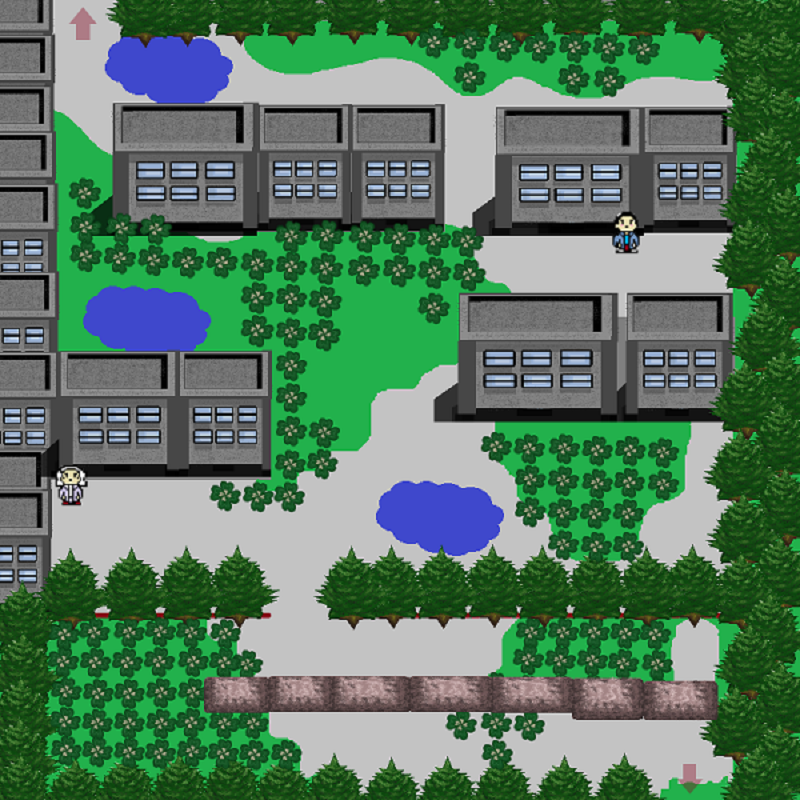
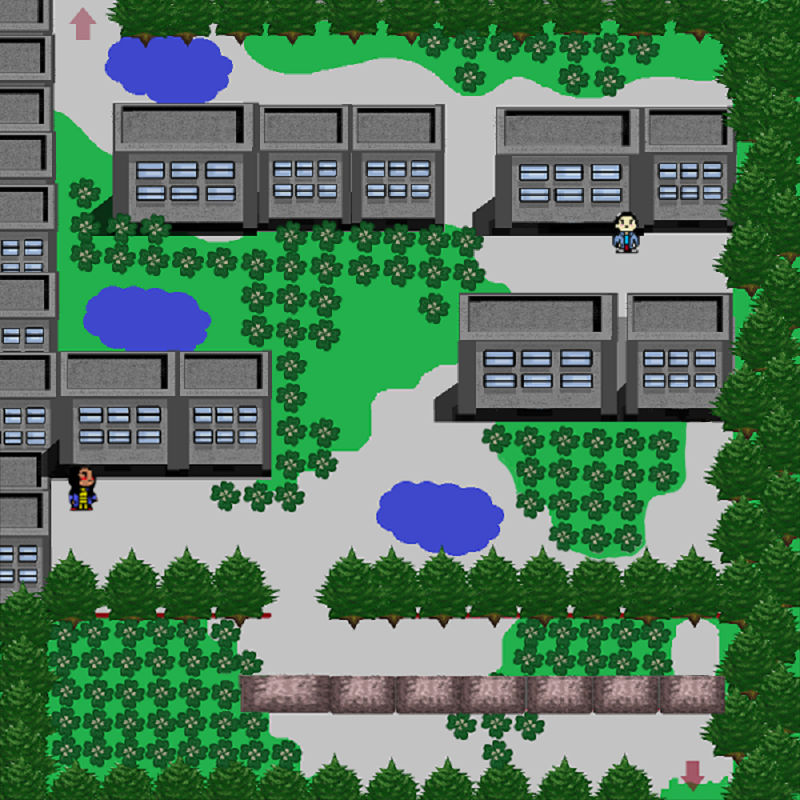
commitage

diff --git a/VariablesDeJeu.java b/VariablesDeJeu.java
@@ -14,15 +14,15 @@ public class VariablesDeJeu {//création de l'unique Jframe
 		public int [] listeInterractionsAvecDresseurs  = new int[60]; //tableau contenenant la liste des combats et leur état : 0= pas fait, 1 perdu, 2 gagné
 		public String nomCarte;
 		private int listeInterractionsAvecDresseursInitiale [] = {0,0,0,0,0,0,0,0,0,0,0,0,0,0,0,0,0,0,0,0,0,0,0,0,0,0,0,0,0,0,0,0,0,0,0,0,0,0,0,0,0,0,0,0,0,0,0,0,0,0,0,0,0,0,0,0,0,0,0,0};
-		private int taTurne [][] = { {0,0,0,0,0,0,0,0,0,0,0,0,0,0,0,0,0,0,0,0,0,0,0,0,0},{0,0,0,0,0,0,0,0,0,0,0,0,0,0,0,0,0,0,0,0,0,0,0,0,0},{0,0,0,0,0,0,0,0,0,0,0,0,0,0,0,0,0,0,0,0,0,0,0,0,0},{0,0,0,0,0,0,0,0,0,0,0,0,0,0,0,0,0,0,0,0,0,0,0,0,0},{0,0,0,0,0,0,0,0,0,0,0,0,0,0,0,0,0,0,0,0,0,0,0,0,0},{0,0,0,0,0,0,0,0,0,0,0,0,0,0,0,0,0,0,0,0,0,0,0,0,0},{0,0,0,0,0,0,0,0,0,0,0,0,0,0,0,0,0,0,0,0,0,0,0,0,0},{0,0,0,0,1,1,1,1,1,0,0,0,0,0,0,0,0,0,1,1,1,1,1,1,0},{0,1,1,1,1,1,1,1,1,0,0,0,0,0,1,1,1,1,1,1,1,1,1,1,0},{0,1,1,1,1,1,1,1,1,0,0,0,1,1,1,1,1,1,1,1,1,1,1,1,0},{0,1,1,1,1,1,1,1,1,1,1,1,1,1,1,1,1,1,1,1,1,1,1,1,0},{0,1,1,1,201,201,201,0,0,0,0,0,0,0,0,1,1,1,1,1,1,1,1,1,0},{0,0,0,0,201,2,201,1,1,0,0,0,0,1,1,1,1,1,1,1,1,1,1,1,0},{0,0,0,0,201,2,201,0,0,0,0,0,0,0,0,1,1,1,1,1,1,1,1,1,0},{0,0,0,0,201,201,201,1,0,0,0,0,0,1,1,1,1,1,1,1,1,1,1,1,0},{0,1,1,1,1,1,1,1,1,1,1,1,1,1,1,1,1,1,1,1,1,1,1,1,0},{0,1,1,1,1,1,1,1,1,1,1,1,1,1,1,1,1,1,1,1,1,1,1,1,0},{0,1,1,1,1,1,1,1,1,1,1,4102,1,1,1,1,1,1,1,1,1,1,1,1,0},{0,1,1,1,1,1,1,1,1,1,4102,4102,4102,4102,1,1,1,1,1,1,1,1,1,1,0},{0,0,0,0,0,0,0,0,0,4102,4102,4102,4102,4102,0,0,0,0,0,0,0,0,0,0,0},{0,0,0,0,0,0,0,0,0,0,0,0,0,0,0,0,0,0,0,0,0,0,0,0,0},{0,0,0,0,0,0,0,0,0,0,0,0,0,0,0,0,0,0,0,0,0,0,0,0,0},{0,0,0,0,0,0,0,0,0,0,0,0,0,0,0,0,0,0,0,0,0,0,0,0,0},{0,0,0,0,0,0,0,0,0,0,0,0,0,0,0,0,0,0,0,0,0,0,0,0,0},{0,0,0,0,0,0,0,0,0,0,0,0,0,0,0,0,0,0,0,0,0,0,0,0,0} };
+		private int taTurne [][] = { {0,0,0,0,0,0,0,0,0,0,0,0,0,0,0,0,0,0,0,0,0,0,0,0,0},{0,0,0,0,0,0,0,0,0,0,0,0,0,0,0,0,0,0,0,0,0,0,0,0,0},{0,0,0,0,0,0,0,0,0,0,0,0,0,0,0,0,0,0,0,0,0,0,0,0,0},{0,0,0,0,0,0,0,0,0,0,0,0,0,0,0,0,0,0,0,0,0,0,0,0,0},{0,0,0,0,0,0,0,0,0,0,0,0,0,0,0,0,0,0,0,0,0,0,0,0,0},{0,0,0,0,0,0,0,0,0,0,0,0,0,0,0,0,0,0,0,0,0,0,0,0,0},{0,0,0,0,0,0,0,0,0,0,0,0,0,0,0,0,0,0,0,0,0,0,0,0,0},{0,0,0,0,1,1,1,1,1,0,0,0,0,0,0,0,0,0,1,1,1,1,1,1,0},{0,1,1,1,1,1,1,1,1,0,0,0,0,0,1,1,1,1,1,1,1,1,1,1,0},{0,1,1,1,1,1,1,1,1,0,0,0,1,1,1,1,1,1,1,1,1,1,1,1,0},{0,1,1,1,1,1,1,1,1,1,1,1,1,1,1,1,1,1,1,1,1,1,1,1,0},{0,1,1,1,201,201,201,0,0,0,0,0,0,0,0,1,1,1,1,1,1,1,1,1,0},{0,0,0,0,201,2,201,1,1,0,0,0,0,1,1,1,1,1,1,1,1,1,1,1,0},{0,0,0,0,201,2,201,0,0,0,0,0,0,0,0,1,1,1,1,1,1,1,1,1,0},{0,0,0,0,201,201,201,1,0,0,0,0,0,1,1,1,1,1,1,1,1,1,1,1,0},{0,1,1,1,1,1,1,1,1,1,1,1,1,1,1,1,1,1,1,1,1,1,1,1,0},{0,1,1,1,1,1,1,1,1,1,1,1,1,1,1,1,1,1,1,1,1,1,1,1,0},{0,1,1,1,1,1,1,1,1,1,1,4102,1,1,1,1,1,1,1,1,1,1,1,1,0},{0,1,1,1,1,1,1,1,1,1,1,1,1,1,1,1,1,1,1,1,1,1,1,1,0},{0,0,0,0,0,0,0,0,0,4102,4102,4102,4102,4102,0,0,0,0,0,0,0,0,0,0,0},{0,0,0,0,0,0,0,0,0,0,0,0,0,0,0,0,0,0,0,0,0,0,0,0,0},{0,0,0,0,0,0,0,0,0,0,0,0,0,0,0,0,0,0,0,0,0,0,0,0,0},{0,0,0,0,0,0,0,0,0,0,0,0,0,0,0,0,0,0,0,0,0,0,0,0,0},{0,0,0,0,0,0,0,0,0,0,0,0,0,0,0,0,0,0,0,0,0,0,0,0,0},{0,0,0,0,0,0,0,0,0,0,0,0,0,0,0,0,0,0,0,0,0,0,0,0,0} };
 		private	int laFeyssine [][] = { {0,0,4105,4105,4105,0,0,0,0,0,0,0,0,0,0,0,0,0,0,0,0,0,0,0,0},{0,0,4105,4105,4105,0,0,0,0,0,0,0,0,0,0,0,0,0,0,0,0,0,0,0,0},{0,0,202,202,202,0,0,0,0,0,0,0,1,1,1,1,0,0,0,0,0,0,0,0,0},{0,0,2,202,202,0,0,0,0,0,0,2,203,1,1,1,0,0,0,0,0,0,0,0,0},{0,0,2,202,202,202,0,0,0,0,0,2,203,1,1,1,0,0,0,0,0,0,0,0,0},{0,0,202,202,202,1,0,0,0,0,0,203,203,1,1,1,0,0,0,0,0,0,0,0,0},{0,0,1,1,1,0,0,0,0,0,0,1,1,0,0,0,0,0,0,0,0,0,0,0,0},{0,0,1,1,1,0,0,0,0,0,0,1,1,0,0,0,0,0,0,0,0,0,0,0,0},{0,0,1,1,1,0,0,0,0,0,0,1,1,0,0,0,0,4101,4101,4101,0,0,0,0,0},{0,0,1,1,1,1,0,1,1,1,0,1,1,0,0,0,0,4101,4101,4101,0,0,0,0,0},{0,0,1,1,1,1,1,0,0,0,1,1,1,0,0,0,1,1,1,1,1,1,1,0,0},{0,0,1,1,1,1,0,0,0,0,0,1,1,0,0,0,1,1,1,1,1,1,1,0,0},{0,0,1,1,1,1,0,0,0,0,0,1,1,1,1,1,1,1,1,1,1,1,1,0,0},{0,0,1,1,1,1,0,0,0,0,0,1,1,1,1,1,0,0,0,0,0,0,0,0,0},{0,0,1,1,1,1,0,0,0,0,0,1,1,1,1,1,0,0,0,0,0,0,0,0,0},{0,0,1,1,1,1,0,0,0,0,0,1,1,1,1,1,0,0,0,0,0,0,0,0,0},{0,0,1,1,1,1,0,0,0,0,0,1,1,1,1,1,0,0,0,0,0,0,0,0,0},{0,0,1,1,1,1,0,0,0,0,0,1,1,204,204,0,0,0,4103,0,0,0,0,0,0},{0,0,1,1,1,1,0,0,0,0,0,1,1,204,2,0,0,4103,4103,0,0,0,0,0,0},{0,0,1,1,1,1,0,0,0,0,0,1,1,204,2,0,0,0,4103,0,0,0,0,0,0},{0,0,1,1,1,1,0,0,0,0,0,1,1,204,204,204,1,1,1,1,1,1,1,0,0},{0,0,1,1,1,1,0,0,0,0,0,1,1,1,1,1,1,1,1,1,1,1,1,0,0},{0,0,1,1,1,1,0,0,0,0,0,0,0,0,0,0,0,0,0,0,0,0,0,0,0},{0,0,0,0,0,0,0,0,0,0,0,0,0,0,0,0,0,0,0,0,0,0,0,0,0},{0,0,0,0,0,0,0,0,0,0,0,0,0,0,0,0,0,0,0,0,0,0,0,0,0}};
 		private int turneVoisin [][] = { {0,0,0,0,0,0,0,0,0,0,0,0,0,0,0,0,0,0,0,0,0,0,0,0,0},{0,0,0,0,0,0,0,0,0,0,0,0,0,0,0,0,0,0,0,0,0,0,0,0,0},{0,0,0,0,0,0,0,0,0,0,0,0,0,0,0,0,0,0,0,0,0,0,0,0,0},{0,0,0,0,0,0,0,0,0,0,0,0,0,0,0,0,0,0,0,0,0,0,0,0,0},{0,0,0,0,0,0,0,0,0,0,0,0,0,0,0,0,0,0,0,0,0,0,0,0,0},{0,0,0,0,0,0,0,0,0,0,0,0,0,0,0,0,0,0,0,0,0,0,0,0,0},{0,0,0,0,0,0,0,0,0,0,0,0,0,0,0,0,0,0,0,0,0,0,0,0,0},{0,0,0,0,0,0,0,0,0,0,0,0,0,0,0,0,0,1,0,0,0,0,0,0,0},{0,1,1,0,0,0,0,0,0,0,0,0,0,0,1,1,1,1,1,1,1,0,0,0,0},{0,1,1,0,0,0,0,1,1,1,1,1,0,0,1,1,1,1,1,1,1,0,0,0,0},{0,1,1,0,0,0,0,1,1,1,1,1,1,1,1,1,1,1,1,1,1,0,0,0,0},{0,1,1,0,0,0,0,1,1,1,1,1,1,1,1,205,205,205,1,1,1,0,0,0,0},{0,1,1,0,0,0,0,1,1,1,1,1,0,0,205,2,205,1,1,1,1,0,0,0,0},{0,1,1,206,206,206,1,1,1,1,1,1,1,1,205,2,205,1,1,1,1,0,0,0,0},{0,1,206,2,2,206,1,1,1,1,1,1,1,1,205,205,205,1,1,1,1,1,1,0,0},{0,1,206,2,2,206,1,1,1,1,1,1,1,1,1,1,1,1,1,1,1,1,1,0,0},{0,1,1,206,206,206,1,1,1,1,1,1,1,1,1,1,1,1,1,1,1,1,1,0,0},{0,1,1,1,1,1,1,1,1,1,1,4104,1,1,1,1,1,1,1,1,1,1,1,0,0},{0,1,1,1,1,1,1,1,1,1,4104,4104,4104,4104,1,1,1,1,1,1,1,1,1,0,0},{0,0,0,0,0,0,0,0,0,4104,4104,4104,4104,4104,0,0,0,0,0,0,0,0,0,0,0},{0,0,0,0,0,0,0,0,0,0,0,0,0,0,0,0,0,0,0,0,0,0,0,0,0},{0,0,0,0,0,0,0,0,0,0,0,0,0,0,0,0,0,0,0,0,0,0,0,0,0},{0,0,0,0,0,0,0,0,0,0,0,0,0,0,0,0,0,0,0,0,0,0,0,0,0},{0,0,0,0,0,0,0,0,0,0,0,0,0,0,0,0,0,0,0,0,0,0,0,0,0},{0,0,0,0,0,0,0,0,0,0,0,0,0,0,0,0,0,0,0,0,0,0,0,0,0}};	
-		private	int travee1 [][] = {{0,0,0,0,0,0,0,0,0,0,0,0,0,0,0,0,0,0,0,0,0,4202,4202,4202,0},{0,0,3,3,307,5,5,5,5,5,5,5,1,1,1,1,1,1,6,6,6,4202,4202,4202,0},{0,0,307,307,307,5,5,5,1,1,5,1,1,1,1,1,1,1,6,6,6,6,1,0,0},{0,0,0,0,0,0,0,0,0,0,1,0,0,0,0,0,0,0,0,0,0,0,1,0,0},{0,0,0,0,0,0,0,0,0,0,1,0,0,0,0,0,0,0,0,0,0,0,1,0,0},{0,0,0,0,0,0,0,0,0,0,1,0,0,0,0,0,0,0,0,0,0,0,5,0,0},{0,0,0,0,0,0,0,0,0,0,1,0,0,0,0,0,0,0,0,0,0,0,5,0,0},{0,0,0,1,1,1,1,1,1,1,5,5,5,5,5,5,5,1,1,5,5,5,5,0,0},{0,0,0,1,1,1,1,1,1,1,5,5,5,5,5,5,5,5,5,5,5,5,5,0,0},{0,0,0,0,0,0,0,0,0,0,0,5,1,1,5,5,5,5,1,6,6,6,1,0,0},{0,0,0,0,0,0,0,0,0,0,0,1,1,1,5,5,5,5,6,6,6,6,1,0,0},{0,0,0,0,0,0,0,0,0,0,0,1,1,1,1,5,0,0,0,0,0,0,0,0,0},{0,0,0,0,0,0,0,0,0,0,0,1,1,1,1,5,0,0,0,0,0,0,0,0,0},{0,0,0,3,308,5,5,5,5,5,1,1,1,1,5,5,0,0,0,0,0,0,0,0,0},{0,0,0,3,308,5,5,5,5,5,1,1,1,1,5,5,0,0,0,0,0,0,0,0,0},{0,0,0,308,308,5,5,5,5,1,6,6,6,1,1,5,5,5,5,1,1,309,3,0,0},{0,0,0,1,1,5,5,5,5,6,6,6,6,1,1,1,1,1,1,1,1,309,309,0,0},{0,0,0,0,0,0,0,0,0,0,0,0,0,0,0,1,1,0,0,0,0,0,0,0,0},{0,0,0,0,0,0,0,0,0,0,0,0,0,0,0,1,1,0,0,0,0,0,0,0,0},{0,0,310,3,310,5,5,5,5,1,1,1,1,1,1,1,1,5,5,5,5,5,5,0,0},{0,0,310,3,310,5,5,5,5,1,1,1,1,1,1,1,1,5,5,5,5,5,5,0,0},{0,0,0,0,0,0,0,0,0,0,0,0,0,0,0,0,0,0,5,5,5,5,5,0,0},{0,0,0,1,1,1,1,1,5,5,5,1,1,1,1,1,5,5,5,5,5,5,5,0,0},{0,0,4201,4201,4201,1,1,1,1,5,1,1,1,1,1,5,5,5,5,5,5,5,5,0,0},{0,0,4201,4201,4201,0,0,0,0,0,0,0,0,0,0,0,0,0,0,0,0,0,0,0,0}};
-		private	int travee2 [][] = {{0,0,4302,4302,4302,0,0,0,0,0,0,0,0,0,0,0,0,0,0,0,0,0,0,0,0},{0,0,4302,4302,4302,6,6,1,1,1,1,1,1,5,5,5,5,5,5,5,5,1,0,0,0},{0,0,1,1,6,6,6,1,1,1,1,1,1,1,5,1,1,5,5,5,1,1,0,0,0},{0,0,1,0,0,0,0,0,0,0,0,0,0,0,0,1,0,0,0,0,0,0,0,0,0},{0,0,1,0,0,0,0,0,0,0,0,0,0,0,0,1,0,0,0,0,0,0,0,0,0},{0,0,5,0,0,0,0,0,0,0,0,0,0,0,0,1,0,0,0,0,0,0,0,0,0},{0,0,5,0,0,0,0,0,0,0,0,0,0,0,0,1,0,0,0,0,0,0,0,0,0},{0,0,5,5,5,5,1,1,1,5,5,5,5,5,5,1,1,1,311,3,311,1,0,0,0},{0,0,5,5,5,5,5,5,5,5,5,5,5,5,5,1,1,1,311,311,311,1,0,0,0},{0,0,1,6,6,6,1,5,5,5,5,1,1,5,0,0,0,0,0,0,0,0,0,0,0},{0,0,1,6,6,6,6,5,5,5,5,1,1,1,0,0,0,0,0,0,0,0,0,0,0},{0,0,0,0,0,0,0,0,0,5,1,1,1,1,0,0,0,0,0,0,0,0,0,0,0},{0,0,0,0,0,0,0,0,0,5,1,1,1,1,0,0,0,0,0,0,0,0,0,0,0},{0,0,0,0,0,0,0,0,0,5,5,1,1,1,1,5,5,5,5,5,5,5,0,0,0},{0,0,0,0,0,0,0,0,0,5,5,1,1,1,1,5,5,5,5,5,5,5,0,0,0},{0,0,3,312,1,1,5,5,5,5,1,1,6,6,6,1,5,5,5,5,5,1,0,0,0},{0,0,312,312,1,1,1,1,1,1,1,1,6,6,6,6,1,5,5,5,1,1,0,0,0},{0,0,0,0,0,0,0,0,1,1,0,0,0,0,0,0,0,0,0,0,0,0,0,0,0},{0,0,0,0,0,0,0,0,1,1,0,0,0,0,0,0,0,0,0,0,0,0,0,0,0},{0,0,5,5,5,5,5,5,1,1,1,1,1,1,1,1,5,5,5,5,5,1,1,0,0},{0,0,5,5,5,5,5,5,1,1,1,1,1,1,1,1,5,5,5,5,5,1,1,0,0},{0,0,5,5,5,5,5,0,0,0,0,0,0,0,0,0,0,0,0,0,0,0,0,0,0},{0,0,5,5,5,5,5,5,5,1,1,1,1,1,5,5,5,1,1,1,1,1,0,0,0},{0,0,5,5,5,5,5,5,5,5,1,1,1,1,1,5,1,1,1,1,4301,4301,4301,0,0},{0,0,5,5,5,5,5,5,5,5,1,1,1,1,1,5,1,1,1,1,4301,4301,4301,0,0}};
-		private	int pc [][] = {{0,0,0,0,0,0,0,0,0,0,0,0,0,0,0,0,0,0,0,0,0,0,0,0,0},{0,0,0,0,0,0,0,0,0,0,0,0,0,0,0,0,0,0,0,0,0,0,0,0,0},{0,0,0,0,0,0,0,0,0,0,0,0,0,0,1,1,1,1,1,1,1,1,1,4414,4414},{0,0,0,0,0,0,0,0,0,0,0,0,0,0,1,1,1,1,1,1,1,1,1,0,0},{0,0,0,0,0,0,0,0,0,0,0,4408,0,0,1,1,1,0,0,0,0,0,1,0,0},{0,0,0,0,0,0,0,0,0,0,4408,4408,4408,0,1,1,1,0,0,0,0,0,1,0,0},{0,0,0,0,1,1,1,1,1,1,4408,4408,4408,1,1,0,0,0,0,0,0,0,1,0,0},{0,0,0,1,1,1,1,1,1,1,1,1,1,1,1,0,0,0,4412,4412,4412,0,1,0,0},{0,0,0,0,1,1,1,1,1,1,1,1,1,1,1,0,0,0,4412,4412,4412,0,1,0,0},{0,0,0,1,1,1,1,1,1,1,1,1,1,1,1,0,0,0,4412,4412,4412,0,1,0,0},{0,0,0,0,1,1,0,0,1,1,1,1,1,1,1,1,1,1,1,1,1,1,1,0,0},{0,0,0,0,1,0,0,0,0,1,1,1,1,1,1,1,1,1,1,1,1,1,1,0,0},{0,0,0,1,1,0,0,0,0,1,1,1,1,1,1,1,1,1,1,1,1,1,1,0,0},{0,0,0,0,1,0,0,0,0,1,1,1,1,1,1,1,1,1,1,1,1,1,1,0,0},{0,0,0,0,1,4402,4402,4402,0,1,1,1,1,1,1,1,1,1,1,1,1,1,1,0,0},{0,0,0,1,1,4402,4402,4402,0,1,1,1,1,0,0,0,0,1,0,0,0,0,1,0,0},{0,0,0,0,1,1,1,1,1,1,1,1,1,0,0,0,0,1,0,0,0,0,1,0,0},{0,0,0,0,1,1,1,0,1,1,1,1,1,0,0,0,0,1,0,0,0,0,1,0,0},{0,0,0,1,1,1,0,0,0,1,1,1,1,0,4404,0,0,1,0,4406,0,0,1,0,0},{0,0,0,0,1,1,0,0,0,1,1,1,1,4404,4404,4404,0,1,4406,4406,4406,0,1,0,0},{0,0,0,0,1,1,1,1,1,1,1,1,1,1,1,1,1,1,1,1,1,1,1,0,0},{0,0,0,0,1,1,1,1,1,1,1,1,1,1,1,1,1,1,1,1,1,1,1,0,0},{0,0,0,0,1,1,1,1,1,1,1,1,1,1,1,1,1,1,1,1,1,1,1,0,0},{0,0,0,0,0,0,0,0,0,4401,4401,4401,4401,0,0,0,0,0,0,0,0,0,0,0,0},{0,0,0,0,0,0,0,0,0,4401,4401,4401,4401,0,0,0,0,0,0,0,0,0,0,0,0}};
-		private	int maison1PC [][] = {{0,0,0,0,0,0,0,0,0,0,0,0,0,0,0,0,0,0,0,0,0,0,0,0,0},{0,0,0,0,0,0,0,0,0,0,0,0,0,0,0,0,0,0,0,0,0,0,0,0,0},{0,0,0,0,0,0,0,0,0,0,0,0,0,0,0,0,0,0,0,0,0,0,0,0,0},{0,0,0,0,0,0,0,0,0,0,0,0,0,0,0,0,0,0,0,0,0,0,0,0,0},{0,0,0,0,0,0,0,0,0,0,0,0,0,0,0,0,0,0,0,0,0,0,0,0,0},{0,0,0,0,0,0,0,0,0,0,0,0,0,0,0,0,0,0,0,0,0,0,0,0,0},{0,0,0,0,0,0,0,0,0,0,0,0,0,0,0,0,0,0,0,0,0,0,0,0,0},{0,0,0,0,0,0,0,1,1,0,0,0,0,0,0,0,0,0,0,0,0,0,0,0,0},{0,0,0,0,0,0,0,1,213,2,2,0,0,0,0,0,0,0,0,0,1,1,1,1,0},{0,1,1,1,1,1,1,1,213,2,2,0,0,0,0,0,0,0,1,1,1,1,1,1,0},{0,0,0,1,1,1,1,1,213,213,213,213,1,1,1,1,1,1,1,1,1,1,1,1,0},{0,1,1,1,1,1,1,1,1,1,1,1,1,1,1,1,1,1,214,214,214,1,1,1,0},{0,1,1,1,1,1,1,1,1,1,1,1,1,1,1,1,1,1,214,2,214,1,1,1,0},{0,0,0,0,1,1,1,1,1,1,1,1,1,1,1,1,1,1,214,2,214,0,0,1,0},{0,0,0,0,1,1,1,1,1,1,1,1,1,1,1,1,1,1,214,2,214,0,0,1,0},{0,0,0,0,1,1,1,1,1,1,1,1,1,1,1,1,1,1,214,214,214,0,0,1,0},{0,0,0,0,1,1,1,1,1,1,1,1,1,1,1,1,1,1,1,1,1,0,0,1,0},{0,1,1,1,1,1,1,1,1,1,1,4403,1,1,1,1,1,1,1,1,1,1,1,1,0},{0,0,0,0,0,0,0,0,0,4403,4403,4403,4403,0,0,0,0,0,0,0,0,0,0,0,0},{0,0,0,0,0,0,0,0,0,4403,4403,4403,4403,0,0,0,0,0,0,0,0,0,0,0,0},{0,0,0,0,0,0,0,0,0,0,0,0,0,0,0,0,0,0,0,0,0,0,0,0,0},{0,0,0,0,0,0,0,0,0,0,0,0,0,0,0,0,0,0,0,0,0,0,0,0,0},{0,0,0,0,0,0,0,0,0,0,0,0,0,0,0,0,0,0,0,0,0,0,0,0,0},{0,0,0,0,0,0,0,0,0,0,0,0,0,0,0,0,0,0,0,0,0,0,0,0,0},{0,0,0,0,0,0,0,0,0,0,0,0,0,0,0,0,0,0,0,0,0,0,0,0,0}};
-		private	int maison2PC [][] = {{0,0,0,0,0,0,0,0,0,0,0,0,0,0,0,0,0,0,0,0,0,0,0,0,0},{0,0,0,0,0,0,0,0,0,0,0,0,0,0,0,0,0,0,0,0,0,0,0,0,0},{0,0,0,0,0,0,0,0,0,0,0,0,0,0,0,0,0,0,0,0,0,0,0,0,0},{0,0,0,0,0,0,0,0,0,0,0,0,0,0,0,0,0,0,0,0,0,0,0,0,0},{0,0,0,0,0,0,0,0,0,0,0,0,0,0,0,0,0,0,0,0,0,0,0,0,0},{0,0,0,0,0,0,0,0,0,0,0,0,0,0,0,0,0,0,0,0,0,0,0,0,0},{0,0,0,0,0,0,0,0,0,0,0,0,0,0,0,0,0,0,0,1,1,1,1,1,0},{0,0,0,0,0,0,0,0,0,0,0,0,0,0,0,0,0,1,1,1,1,1,1,1,0},{0,0,0,0,1,1,0,0,0,0,0,0,0,0,0,0,0,0,0,1,1,1,1,1,0},{0,1,1,1,1,215,215,215,215,1,1,1,1,1,1,1,1,1,1,1,1,1,1,1,0},{0,1,1,1,1,215,2,2,215,0,0,0,0,1,1,1,1,1,1,1,1,1,1,1,0},{0,1,1,1,1,215,2,2,215,0,0,0,0,1,1,1,1,1,1,1,1,1,1,1,0},{0,1,1,1,1,215,0,0,215,0,0,0,0,1,1,1,1,1,1,1,1,1,1,1,0},{0,1,1,1,1,1,1,1,1,0,0,0,0,1,1,1,1,1,1,1,1,1,1,1,0},{0,1,1,1,1,1,1,1,1,0,0,0,0,1,1,1,1,1,1,1,1,1,1,1,0},{0,1,1,1,1,1,1,1,1,1,1,1,1,1,1,1,1,1,1,1,1,1,1,1,0},{0,0,0,1,1,1,1,1,1,1,1,1,1,1,1,1,1,1,1,1,1,1,0,0,0},{0,0,0,1,1,1,1,1,1,1,1,4405,1,1,1,1,1,1,1,1,1,1,0,0,0},{0,0,0,0,0,0,0,0,0,4405,4405,4405,4405,0,0,0,0,0,0,0,0,0,0,0,0},{0,0,0,0,0,0,0,0,0,4405,4405,4405,4405,0,0,0,0,0,0,0,0,0,0,0,0},{0,0,0,0,0,0,0,0,0,0,0,0,0,0,0,0,0,0,0,0,0,0,0,0,0},{0,0,0,0,0,0,0,0,0,0,0,0,0,0,0,0,0,0,0,0,0,0,0,0,0},{0,0,0,0,0,0,0,0,0,0,0,0,0,0,0,0,0,0,0,0,0,0,0,0,0},{0,0,0,0,0,0,0,0,0,0,0,0,0,0,0,0,0,0,0,0,0,0,0,0,0},{0,0,0,0,0,0,0,0,0,0,0,0,0,0,0,0,0,0,0,0,0,0,0,0,0}};
-		private	int maison3PC [][] = {{0,0,0,0,0,0,0,0,0,0,0,0,0,0,0,0,0,0,0,0,0,0,0,0,0},{0,0,0,0,0,0,0,0,0,0,0,0,0,0,0,0,0,0,0,0,0,0,0,0,0},{0,0,0,0,0,0,0,0,0,0,0,0,0,0,0,0,0,0,0,0,0,0,0,0,0},{0,0,0,0,0,0,0,0,0,0,0,0,0,0,0,0,0,0,0,0,0,0,0,0,0},{0,0,0,0,0,0,0,0,0,0,0,0,0,0,0,0,0,0,0,0,0,0,0,0,0},{0,0,0,0,0,0,0,0,0,0,0,0,0,0,0,0,0,0,0,0,0,0,0,0,0},{0,0,0,0,0,0,0,0,0,0,0,0,0,0,0,0,0,0,0,0,0,0,0,0,0},{0,1,1,1,1,1,1,1,1,0,0,0,0,0,1,1,1,0,0,1,0,0,1,1,0},{0,1,1,1,1,1,1,1,1,0,0,0,0,0,1,1,1,0,0,1,0,0,1,1,0},{0,1,1,1,1,1,1,1,1,1,1,1,1,1,216,216,1,217,217,217,1,1,1,1,0},{0,0,0,0,0,0,218,218,218,0,0,0,0,0,2,216,1,217,2,0,0,0,0,0,0},{0,0,0,0,0,0,2,218,1,0,0,0,0,0,2,216,1,217,2,0,0,0,0,0,0},{0,0,0,0,0,0,2,218,1,0,0,0,0,0,2,219,1,1,217,0,0,0,0,0,0},{0,0,0,0,0,0,2,218,1,0,0,0,0,0,2,219,1,0,0,0,0,0,0,0,0},{0,0,0,0,0,0,218,218,1,0,0,0,0,0,219,1,1,1,1,0,0,0,0,0,0},{0,1,1,1,1,1,1,1,1,1,1,1,1,1,1,1,1,1,1,1,1,1,1,1,0},{0,1,1,1,1,1,1,1,1,1,1,1,1,1,1,1,1,1,1,1,1,1,1,1,0},{0,1,1,1,1,1,1,1,1,1,1,4407,1,1,1,1,1,1,1,1,1,1,1,1,0},{0,1,1,1,1,1,1,1,1,4407,4407,4407,4407,4407,1,1,1,1,1,1,1,1,1,1,0},{0,0,0,0,0,0,0,0,0,4407,4407,4407,4407,0,0,0,0,0,0,0,0,0,0,0,0},{0,0,0,0,0,0,0,0,0,0,0,0,0,0,0,0,0,0,0,0,0,0,0,0,0},{0,0,0,0,0,0,0,0,0,0,0,0,0,0,0,0,0,0,0,0,0,0,0,0,0},{0,0,0,0,0,0,0,0,0,0,0,0,0,0,0,0,0,0,0,0,0,0,0,0,0},{0,0,0,0,0,0,0,0,0,0,0,0,0,0,0,0,0,0,0,0,0,0,0,0,0},{0,0,0,0,0,0,0,0,0,0,0,0,0,0,0,0,0,0,0,0,0,0,0,0,0}};
+		private	int travee1 [][] = {{0,0,0,0,0,0,0,0,0,0,0,0,0,0,0,0,0,0,0,0,0,4202,4202,4202,0},{0,0,3,3,307,5,5,5,5,5,5,5,1,1,1,1,1,1,0,0,0,4202,4202,4202,0},{0,0,307,307,307,5,5,5,1,1,5,1,1,1,1,1,1,1,0,0,0,0,1,0,0},{0,0,0,0,0,0,0,0,0,0,1,0,0,0,0,0,0,0,0,0,0,0,1,0,0},{0,0,0,0,0,0,0,0,0,0,1,0,0,0,0,0,0,0,0,0,0,0,1,0,0},{0,0,0,0,0,0,0,0,0,0,1,0,0,0,0,0,0,0,0,0,0,0,5,0,0},{0,0,0,0,0,0,0,0,0,0,1,0,0,0,0,0,0,0,0,0,0,0,5,0,0},{0,0,0,1,1,1,1,1,1,1,5,5,5,5,5,5,5,1,1,5,5,5,5,0,0},{0,0,0,1,1,1,1,1,1,1,5,5,5,5,5,5,5,5,5,5,5,5,5,0,0},{0,0,0,0,0,0,0,0,0,0,0,5,1,1,5,5,5,5,1,0,0,0,1,0,0},{0,0,0,0,0,0,0,0,0,0,0,1,1,1,5,5,5,5,0,0,0,0,1,0,0},{0,0,0,0,0,0,0,0,0,0,0,1,1,1,1,5,0,0,0,0,0,0,0,0,0},{0,0,0,0,0,0,0,0,0,0,0,1,1,1,1,5,0,0,0,0,0,0,0,0,0},{0,0,0,3,308,5,5,5,5,5,1,1,1,1,5,5,0,0,0,0,0,0,0,0,0},{0,0,0,3,308,5,5,5,5,5,1,1,1,1,5,5,0,0,0,0,0,0,0,0,0},{0,0,0,308,308,5,5,5,5,1,0,0,0,1,1,5,5,5,5,1,1,309,3,0,0},{0,0,0,1,1,5,5,5,5,0,0,0,0,1,1,1,1,1,1,1,1,309,309,0,0},{0,0,0,0,0,0,0,0,0,0,0,0,0,0,0,1,1,0,0,0,0,0,0,0,0},{0,0,0,0,0,0,0,0,0,0,0,0,0,0,0,1,1,0,0,0,0,0,0,0,0},{0,0,310,3,310,5,5,5,5,1,1,1,1,1,1,1,1,5,5,5,5,5,5,0,0},{0,0,310,3,310,5,5,5,5,1,1,1,1,1,1,1,1,5,5,5,5,5,5,0,0},{0,0,0,0,0,0,0,0,0,0,0,0,0,0,0,0,0,0,5,5,5,5,5,0,0},{0,0,0,1,1,1,1,1,5,5,5,1,1,1,1,1,5,5,5,5,5,5,5,0,0},{0,0,4201,4201,4201,1,1,1,1,5,1,1,1,1,1,5,5,5,5,5,5,5,5,0,0},{0,0,4201,4201,4201,0,0,0,0,0,0,0,0,0,0,0,0,0,0,0,0,0,0,0,0}};
+		private	int travee2 [][] = {{0,0,4302,4302,4302,0,0,0,0,0,0,0,0,0,0,0,0,0,0,0,0,0,0,0,0},{0,0,4302,4302,4302,0,0,1,1,1,1,1,1,5,5,5,5,5,5,5,5,1,0,0,0},{0,0,1,1,0,0,0,1,1,1,1,1,1,1,5,1,1,5,5,5,1,1,0,0,0},{0,0,1,0,0,0,0,0,0,0,0,0,0,0,0,1,0,0,0,0,0,0,0,0,0},{0,0,1,0,0,0,0,0,0,0,0,0,0,0,0,1,0,0,0,0,0,0,0,0,0},{0,0,5,0,0,0,0,0,0,0,0,0,0,0,0,1,0,0,0,0,0,0,0,0,0},{0,0,5,0,0,0,0,0,0,0,0,0,0,0,0,1,0,0,0,0,0,0,0,0,0},{0,0,5,5,5,5,1,1,1,5,5,5,5,5,5,1,1,1,311,3,311,1,0,0,0},{0,0,5,5,5,5,5,5,5,5,5,5,5,5,5,1,1,1,311,311,311,1,0,0,0},{0,0,1,0,0,0,1,5,5,5,5,1,1,5,0,0,0,0,0,0,0,0,0,0,0},{0,0,1,0,0,0,0,5,5,5,5,1,1,1,0,0,0,0,0,0,0,0,0,0,0},{0,0,0,0,0,0,0,0,0,5,1,1,1,1,0,0,0,0,0,0,0,0,0,0,0},{0,0,0,0,0,0,0,0,0,5,1,1,1,1,0,0,0,0,0,0,0,0,0,0,0},{0,0,0,0,0,0,0,0,0,5,5,1,1,1,1,5,5,5,5,5,5,5,0,0,0},{0,0,0,0,0,0,0,0,0,5,5,1,1,1,1,5,5,5,5,5,5,5,0,0,0},{0,0,3,312,1,1,5,5,5,5,1,1,0,0,0,1,5,5,5,5,5,1,0,0,0},{0,0,312,312,1,1,1,1,1,1,1,1,0,0,0,0,1,5,5,5,1,1,0,0,0},{0,0,0,0,0,0,0,0,1,1,0,0,0,0,0,0,0,0,0,0,0,0,0,0,0},{0,0,0,0,0,0,0,0,1,1,0,0,0,0,0,0,0,0,0,0,0,0,0,0,0},{0,0,5,5,5,5,5,5,1,1,1,1,1,1,1,1,5,5,5,5,5,1,1,0,0},{0,0,5,5,5,5,5,5,1,1,1,1,1,1,1,1,5,5,5,5,5,1,1,0,0},{0,0,5,5,5,5,5,0,0,0,0,0,0,0,0,0,0,0,0,0,0,0,0,0,0},{0,0,5,5,5,5,5,5,5,1,1,1,1,1,5,5,5,1,1,1,1,1,0,0,0},{0,0,5,5,5,5,5,5,5,5,1,1,1,1,1,5,1,1,1,1,4301,4301,4301,0,0},{0,0,5,5,5,5,5,5,5,5,1,1,1,1,1,5,1,1,1,1,4301,4301,4301,0,0}};
+		private	int pc [][] = {{0,0,0,0,0,0,0,0,0,0,0,0,0,0,0,0,0,0,0,0,0,0,0,0,0},{0,0,0,0,0,0,0,0,0,0,0,0,0,0,0,0,0,0,0,0,0,0,0,0,0},{0,0,0,0,0,0,0,0,0,0,0,0,0,0,1,1,1,1,1,1,1,1,1,4414,4414},{0,0,0,0,0,0,0,0,0,0,0,0,0,0,1,1,1,1,1,1,1,1,1,0,0},{0,0,0,0,0,0,0,0,0,0,0,4408,0,0,1,1,1,0,0,0,0,0,1,0,0},{0,0,0,0,0,0,0,0,0,0,0,4408,0,0,1,1,1,0,0,0,0,0,1,0,0},{0,0,0,0,1,1,1,1,1,1,1,4408,1,1,1,0,0,0,0,0,0,0,1,0,0},{0,0,0,1,1,1,1,1,1,1,1,1,1,1,1,0,0,0,0,4412,0,0,1,0,0},{0,0,0,0,1,1,1,1,1,1,1,1,1,1,1,0,0,0,0,4412,0,0,1,0,0},{0,0,0,1,1,1,1,1,1,1,1,1,1,1,1,0,0,0,0,4412,4412,0,1,0,0},{0,0,0,0,1,1,0,0,1,1,1,1,1,1,1,1,1,1,1,4412,4412,1,1,0,0},{0,0,0,0,1,0,0,0,0,1,1,1,1,1,1,1,1,1,1,1,1,1,1,0,0},{0,0,0,1,1,0,0,0,0,1,1,1,1,1,1,1,1,1,1,1,1,1,1,0,0},{0,0,0,0,1,0,0,0,0,1,1,1,1,1,1,1,1,1,1,1,1,1,1,0,0},{0,0,0,0,1,0,4402,0,0,1,1,1,1,1,1,1,1,1,1,1,1,1,1,0,0},{0,0,0,1,1,1,4402,1,0,1,1,1,1,0,0,0,0,1,0,0,0,0,1,0,0},{0,0,0,0,1,1,4402,1,1,1,1,1,1,0,0,0,0,1,0,0,0,0,1,0,0},{0,0,0,0,1,1,1,0,1,1,1,1,1,0,0,0,0,1,0,0,0,0,1,0,0},{0,0,0,1,1,1,0,0,0,1,1,1,1,0,4404,0,0,1,0,4406,0,0,1,0,0},{0,0,0,0,1,1,0,0,0,1,1,1,1,0,4404,0,0,1,4406,4406,4406,0,1,0,0},{0,0,0,0,1,1,1,1,1,1,1,1,1,1,4404,1,1,1,1,1,1,1,1,0,0},{0,0,0,0,1,1,1,1,1,1,1,1,1,1,1,1,1,1,1,1,1,1,1,0,0},{0,0,0,0,1,1,1,1,1,1,1,1,1,1,1,1,1,1,1,1,1,1,1,0,0},{0,0,0,0,0,0,0,0,0,4401,4401,4401,4401,0,0,0,0,0,0,0,0,0,0,0,0},{0,0,0,0,0,0,0,0,0,4401,4401,4401,4401,0,0,0,0,0,0,0,0,0,0,0,0}};
+		private	int maison1PC [][] = {{0,0,0,0,0,0,0,0,0,0,0,0,0,0,0,0,0,0,0,0,0,0,0,0,0},{0,0,0,0,0,0,0,0,0,0,0,0,0,0,0,0,0,0,0,0,0,0,0,0,0},{0,0,0,0,0,0,0,0,0,0,0,0,0,0,0,0,0,0,0,0,0,0,0,0,0},{0,0,0,0,0,0,0,0,0,0,0,0,0,0,0,0,0,0,0,0,0,0,0,0,0},{0,0,0,0,0,0,0,0,0,0,0,0,0,0,0,0,0,0,0,0,0,0,0,0,0},{0,0,0,0,0,0,0,0,0,0,0,0,0,0,0,0,0,0,0,0,0,0,0,0,0},{0,0,0,0,0,0,0,0,0,0,0,0,0,0,0,0,0,0,0,0,0,0,0,0,0},{0,0,0,0,0,0,0,1,1,0,0,0,0,0,0,0,0,0,0,0,0,0,0,0,0},{0,0,0,0,0,0,0,1,213,2,2,0,0,0,0,0,0,0,0,0,1,1,1,1,0},{0,1,1,1,1,1,1,1,213,2,2,0,0,0,0,0,0,0,1,1,1,1,1,1,0},{0,0,0,1,1,1,1,1,213,213,213,213,1,1,1,1,1,1,1,1,1,1,1,1,0},{0,1,1,1,1,1,1,1,1,1,1,1,1,1,1,1,1,1,214,214,214,1,1,1,0},{0,1,1,1,1,1,1,1,1,1,1,1,1,1,1,1,1,1,214,2,214,1,1,1,0},{0,0,0,0,1,1,1,1,1,1,1,1,1,1,1,1,1,1,214,2,214,0,0,1,0},{0,0,0,0,1,1,1,1,1,1,1,1,1,1,1,1,1,1,214,2,214,0,0,1,0},{0,0,0,0,1,1,1,1,1,1,1,1,1,1,1,1,1,1,214,214,214,0,0,1,0},{0,0,0,0,1,1,1,1,1,1,1,1,1,1,1,1,1,1,1,1,1,0,0,1,0},{0,1,1,1,1,1,1,1,1,1,1,4403,1,1,1,1,1,1,1,1,1,1,1,1,0},{0,0,0,0,0,0,0,0,0,0,4403,4403,4403,0,0,0,0,0,0,0,0,0,0,0,0},{0,0,0,0,0,0,0,0,0,0,4403,4403,4403,0,0,0,0,0,0,0,0,0,0,0,0},{0,0,0,0,0,0,0,0,0,0,0,0,0,0,0,0,0,0,0,0,0,0,0,0,0},{0,0,0,0,0,0,0,0,0,0,0,0,0,0,0,0,0,0,0,0,0,0,0,0,0},{0,0,0,0,0,0,0,0,0,0,0,0,0,0,0,0,0,0,0,0,0,0,0,0,0},{0,0,0,0,0,0,0,0,0,0,0,0,0,0,0,0,0,0,0,0,0,0,0,0,0},{0,0,0,0,0,0,0,0,0,0,0,0,0,0,0,0,0,0,0,0,0,0,0,0,0}};
+		private	int maison2PC [][] = {{0,0,0,0,0,0,0,0,0,0,0,0,0,0,0,0,0,0,0,0,0,0,0,0,0},{0,0,0,0,0,0,0,0,0,0,0,0,0,0,0,0,0,0,0,0,0,0,0,0,0},{0,0,0,0,0,0,0,0,0,0,0,0,0,0,0,0,0,0,0,0,0,0,0,0,0},{0,0,0,0,0,0,0,0,0,0,0,0,0,0,0,0,0,0,0,0,0,0,0,0,0},{0,0,0,0,0,0,0,0,0,0,0,0,0,0,0,0,0,0,0,0,0,0,0,0,0},{0,0,0,0,0,0,0,0,0,0,0,0,0,0,0,0,0,0,0,0,0,0,0,0,0},{0,0,0,0,0,0,0,0,0,0,0,0,0,0,0,0,0,0,0,1,1,1,1,1,0},{0,0,0,0,0,0,0,0,0,0,0,0,0,0,0,0,0,1,1,1,1,1,1,1,0},{0,0,0,0,1,1,0,0,0,0,0,0,0,0,0,0,0,0,0,1,1,1,1,1,0},{0,1,1,1,1,215,215,215,215,1,1,1,1,1,1,1,1,1,1,1,1,1,1,1,0},{0,1,1,1,1,215,2,2,215,0,0,0,0,1,1,1,1,1,1,1,1,1,1,1,0},{0,1,1,1,1,215,2,2,215,0,0,0,0,1,1,1,1,1,1,1,1,1,1,1,0},{0,1,1,1,1,215,0,0,215,0,0,0,0,1,1,1,1,1,1,1,1,1,1,1,0},{0,1,1,1,1,1,1,1,1,0,0,0,0,1,1,1,1,1,1,1,1,1,1,1,0},{0,1,1,1,1,1,1,1,1,0,0,0,0,1,1,1,1,1,1,1,1,1,1,1,0},{0,1,1,1,1,1,1,1,1,1,1,1,1,1,1,1,1,1,1,1,1,1,1,1,0},{0,0,0,1,1,1,1,1,1,1,1,1,1,1,1,1,1,1,1,1,1,1,0,0,0},{0,0,0,1,1,1,1,1,1,1,1,4405,1,1,1,1,1,1,1,1,1,1,0,0,0},{0,0,0,0,0,0,0,0,0,0,4405,4405,4405,0,0,0,0,0,0,0,0,0,0,0,0},{0,0,0,0,0,0,0,0,0,0,4405,4405,4405,0,0,0,0,0,0,0,0,0,0,0,0},{0,0,0,0,0,0,0,0,0,0,0,0,0,0,0,0,0,0,0,0,0,0,0,0,0},{0,0,0,0,0,0,0,0,0,0,0,0,0,0,0,0,0,0,0,0,0,0,0,0,0},{0,0,0,0,0,0,0,0,0,0,0,0,0,0,0,0,0,0,0,0,0,0,0,0,0},{0,0,0,0,0,0,0,0,0,0,0,0,0,0,0,0,0,0,0,0,0,0,0,0,0},{0,0,0,0,0,0,0,0,0,0,0,0,0,0,0,0,0,0,0,0,0,0,0,0,0}};
+		private	int maison3PC [][] = {{0,0,0,0,0,0,0,0,0,0,0,0,0,0,0,0,0,0,0,0,0,0,0,0,0},{0,0,0,0,0,0,0,0,0,0,0,0,0,0,0,0,0,0,0,0,0,0,0,0,0},{0,0,0,0,0,0,0,0,0,0,0,0,0,0,0,0,0,0,0,0,0,0,0,0,0},{0,0,0,0,0,0,0,0,0,0,0,0,0,0,0,0,0,0,0,0,0,0,0,0,0},{0,0,0,0,0,0,0,0,0,0,0,0,0,0,0,0,0,0,0,0,0,0,0,0,0},{0,0,0,0,0,0,0,0,0,0,0,0,0,0,0,0,0,0,0,0,0,0,0,0,0},{0,0,0,0,0,0,0,0,0,0,0,0,0,0,0,0,0,0,0,0,0,0,0,0,0},{0,1,1,1,1,1,1,1,1,0,0,0,0,0,1,1,1,0,0,1,0,0,1,1,0},{0,1,1,1,1,1,1,1,1,0,0,0,0,0,1,1,1,0,0,1,0,0,1,1,0},{0,1,1,1,1,1,1,1,1,1,1,1,1,1,216,216,1,217,217,217,1,1,1,1,0},{0,0,0,0,0,0,218,218,218,0,0,0,0,0,2,216,1,217,2,0,0,0,0,0,0},{0,0,0,0,0,0,2,218,1,0,0,0,0,0,2,216,1,217,2,0,0,0,0,0,0},{0,0,0,0,0,0,2,218,1,0,0,0,0,0,2,219,1,1,217,0,0,0,0,0,0},{0,0,0,0,0,0,2,218,1,0,0,0,0,0,2,219,1,0,0,0,0,0,0,0,0},{0,0,0,0,0,0,218,218,1,0,0,0,0,0,219,1,1,1,1,0,0,0,0,0,0},{0,1,1,1,1,1,1,1,1,1,1,1,1,1,1,1,1,1,1,1,1,1,1,1,0},{0,1,1,1,1,1,1,1,1,1,1,1,1,1,1,1,1,1,1,1,1,1,1,1,0},{0,1,1,1,1,1,1,1,1,1,1,4407,1,1,1,1,1,1,1,1,1,1,1,1,0},{0,1,1,1,1,1,1,1,1,1,1,4407,4407,4407,1,1,1,1,1,1,1,1,1,1,0},{0,0,0,0,0,0,0,0,0,0,4407,4407,4407,0,0,0,0,0,0,0,0,0,0,0,0},{0,0,0,0,0,0,0,0,0,0,0,0,0,0,0,0,0,0,0,0,0,0,0,0,0},{0,0,0,0,0,0,0,0,0,0,0,0,0,0,0,0,0,0,0,0,0,0,0,0,0},{0,0,0,0,0,0,0,0,0,0,0,0,0,0,0,0,0,0,0,0,0,0,0,0,0},{0,0,0,0,0,0,0,0,0,0,0,0,0,0,0,0,0,0,0,0,0,0,0,0,0},{0,0,0,0,0,0,0,0,0,0,0,0,0,0,0,0,0,0,0,0,0,0,0,0,0}};
 		private	int arenePC [][] = {{0,0,0,0,0,0,0,0,0,0,0,0,0,0,0,0,0,0,0,0,0,0,0,0,0},{0,0,0,0,0,0,0,0,0,0,0,0,0,0,0,0,0,0,0,0,0,0,0,0,0},{0,0,0,0,0,0,0,0,0,0,0,0,0,0,0,0,0,0,0,0,0,0,0,0,0},{0,0,0,0,0,0,0,0,0,0,0,0,0,0,0,0,0,0,0,0,0,0,0,0,0},{0,0,0,0,0,0,0,0,0,0,0,0,0,0,0,0,0,0,0,0,0,0,0,0,0},{0,0,0,0,0,0,0,0,0,0,0,0,0,0,0,0,0,0,0,0,0,0,0,0,0},{0,0,0,0,0,0,0,0,0,0,0,3,320,320,0,0,0,0,0,0,0,0,0,0,0},{0,0,0,0,0,0,0,0,0,0,0,320,1,1,0,0,0,0,0,0,0,0,0,0,0},{0,0,0,0,0,3,321,1,1,1,1,1,1,0,0,0,0,0,0,0,0,0,0,0,0},{0,0,0,0,0,321,321,1,1,1,1,1,1,0,0,0,0,0,0,0,0,0,0,0,0},{0,0,0,0,0,1,1,0,0,0,0,0,0,0,0,0,0,0,3,0,0,0,0,0,0},{0,0,0,0,0,1,1,1,1,1,1,1,1,1,1,1,1,322,3,322,0,0,0,0,0},{0,0,0,0,0,1,1,1,1,1,1,1,1,1,1,1,1,322,322,322,0,0,0,0,0},{0,0,0,0,0,0,0,0,0,0,0,0,0,0,0,0,0,0,1,1,0,0,0,0,0},{0,0,0,0,0,1,1,1,1,1,1,1,1,1,1,1,1,1,1,323,3,0,0,0,0},{0,0,0,0,0,1,1,1,1,1,1,1,1,1,1,1,1,1,1,323,323,0,0,0,0},{0,0,0,0,0,1,0,0,0,0,0,0,0,0,0,0,0,0,0,0,0,0,0,0,0},{0,0,0,0,3,324,0,0,0,0,0,0,0,0,0,0,0,0,0,0,0,0,0,0,0},{0,0,0,0,3,324,1,1,1,1,1,1,1,1,0,0,0,0,0,0,0,0,0,0,0},{0,0,0,0,0,0,0,0,0,0,1,1,1,225,2,0,0,0,0,0,0,0,0,0,0},{0,0,0,0,0,0,0,0,0,0,4413,4413,4413,225,225,0,0,0,0,0,0,0,0,0,0},{0,0,0,0,0,0,0,0,0,0,4413,4413,4413,4413,4413,0,0,0,0,0,0,0,0,0,0},{0,0,0,0,0,0,0,0,0,0,0,0,0,0,0,0,0,0,0,0,0,0,0,0,0},{0,0,0,0,0,0,0,0,0,0,0,0,0,0,0,0,0,0,0,0,0,0,0,0,0},{0,0,0,0,0,0,0,0,0,0,0,0,0,0,0,0,0,0,0,0,0,0,0,0,0}};
 		private	int batRdc [][] = {{0,0,0,0,0,0,0,0,0,0,0,0,0,0,0,0,0,0,0,0,0,0,0,0,0},{0,0,0,0,0,0,0,0,0,0,0,0,0,0,0,0,0,0,0,0,0,0,0,0,0},{0,0,0,0,0,0,0,0,0,0,0,0,0,0,0,0,0,0,0,0,0,0,0,0,0},{0,0,0,0,0,0,0,0,0,0,0,0,0,0,0,0,0,0,0,0,0,0,0,0,0},{0,0,0,0,0,0,0,0,0,0,0,0,0,0,0,0,0,0,0,0,0,0,0,0,0},{0,0,0,0,0,0,0,0,0,0,0,0,0,0,0,0,0,0,0,0,0,0,0,0,0},{0,0,0,0,0,0,0,0,0,0,0,0,0,0,4410,4410,4410,4410,0,0,0,0,0,0,0},{0,1,1,0,0,0,0,1,1,0,0,0,0,0,4410,4410,4410,4410,1,1,1,1,1,1,0},{0,1,1,0,0,0,0,1,1,0,0,0,0,0,0,0,1,1,1,1,1,1,1,1,0},{0,1,1,0,0,0,0,1,1,0,0,0,0,0,1,1,1,1,1,1,1,1,1,1,0},{0,1,1,0,0,0,0,1,1,1,1,1,1,1,227,227,227,1,1,1,1,1,1,1,0},{0,1,226,2,0,0,0,1,1,1,1,1,1,1,227,2,227,1,1,1,1,1,1,1,0},{0,1,226,2,226,0,0,1,1,1,1,1,1,1,227,2,227,0,0,0,0,1,1,1,0},{0,1,226,226,226,1,1,1,1,1,1,1,1,1,227,227,227,0,0,0,0,0,0,1,0},{0,1,1,1,1,1,1,1,1,1,1,1,1,1,1,1,1,0,0,0,0,1,1,1,0},{0,1,1,1,1,1,1,1,1,1,1,1,1,1,1,0,1,0,0,0,0,0,0,1,0},{0,1,1,1,1,1,1,1,1,1,1,1,1,1,1,1,1,1,1,1,1,1,1,1,0},{0,1,1,1,1,1,1,1,1,1,1,4409,1,1,1,1,1,1,1,1,1,1,1,1,0},{0,1,1,1,1,1,1,1,1,4409,4409,4409,4409,4409,1,1,1,1,1,1,1,1,1,1,0},{0,0,0,0,0,0,0,0,0,4409,4409,4409,4409,4409,0,0,0,0,0,0,0,0,0,0,0},{0,0,0,0,0,0,0,0,0,0,0,0,0,0,0,0,0,0,0,0,0,0,0,0,0},{0,0,0,0,0,0,0,0,0,0,0,0,0,0,0,0,0,0,0,0,0,0,0,0,0},{0,0,0,0,0,0,0,0,0,0,0,0,0,0,0,0,0,0,0,0,0,0,0,0,0},{0,0,0,0,0,0,0,0,0,0,0,0,0,0,0,0,0,0,0,0,0,0,0,0,0},{0,0,0,0,0,0,0,0,0,0,0,0,0,0,0,0,0,0,0,0,0,0,0,0,0}};
 		private	int BatEtage [][] = {{0,0,0,0,0,0,0,0,0,0,0,0,0,0,0,0,0,0,0,0,0,0,0,0,0},{0,0,0,0,0,0,0,0,0,0,0,0,0,0,0,0,0,0,0,0,0,0,0,0,0},{0,0,0,0,0,0,0,0,0,0,0,0,0,0,0,0,0,0,0,0,0,0,0,0,0},{0,0,0,0,0,0,0,0,0,0,0,0,0,0,0,0,0,0,0,0,0,0,0,0,0},{0,0,0,0,0,0,0,0,0,0,0,0,0,0,0,0,0,0,0,0,0,0,0,0,0},{0,0,0,2,2,0,0,0,0,0,0,0,0,0,0,0,0,0,0,0,0,0,0,0,0},{0,1,228,2,228,0,0,0,0,0,0,0,0,0,0,0,0,0,0,0,0,0,0,0,0},{0,1,228,2,228,0,0,1,1,0,0,0,0,0,1,1,1,1,1,1,4411,4411,4411,0,0},{0,1,1,0,0,0,0,1,1,0,0,0,0,0,1,1,1,1,1,1,4411,4411,4411,0,0},{0,1,1,0,0,0,0,1,1,0,0,0,0,0,1,1,1,1,1,1,0,0,0,0,0},{0,1,1,0,0,0,0,1,1,1,1,1,1,1,1,1,1,1,1,1,1,1,1,1,0},{0,1,1,0,0,0,0,1,1,1,1,1,1,1,1,1,1,1,1,1,1,1,1,1,0},{0,1,1,1,1,1,1,229,229,0,0,0,0,0,1,1,1,1,1,1,1,1,1,1,0},{0,1,1,1,1,1,1,229,2,0,0,0,0,0,1,1,1,1,1,1,1,1,1,1,0},{0,1,1,1,1,1,1,229,2,0,0,0,0,0,1,1,1,1,1,1,1,0,0,0,0},{0,1,1,1,1,1,1,229,229,0,0,0,0,0,1,1,1,1,1,1,1,0,0,0,0},{0,1,1,1,1,1,1,1,1,0,0,0,0,0,1,1,1,1,1,1,230,2,2,0,0},{0,1,1,1,1,1,1,1,1,1,1,1,1,1,1,1,1,1,1,1,230,2,2,0,0},{0,0,0,0,0,0,0,0,0,0,0,0,0,0,0,0,0,0,0,0,0,0,0,0,0},{0,0,0,0,0,0,0,0,0,0,0,0,0,0,0,0,0,0,0,0,0,0,0,0,0},{0,0,0,0,0,0,0,0,0,0,0,0,0,0,0,0,0,0,0,0,0,0,0,0,0},{0,0,0,0,0,0,0,0,0,0,0,0,0,0,0,0,0,0,0,0,0,0,0,0,0},{0,0,0,0,0,0,0,0,0,0,0,0,0,0,0,0,0,0,0,0,0,0,0,0,0},{0,0,0,0,0,0,0,0,0,0,0,0,0,0,0,0,0,0,0,0,0,0,0,0,0},{0,0,0,0,0,0,0,0,0,0,0,0,0,0,0,0,0,0,0,0,0,0,0,0,0}};
@@ -80,7 +80,16 @@ public class VariablesDeJeu {//création de l'unique Jframe
 						this.musique="Musiques/bienvenue.wav";
 						break;
 					}
-									 						 
+					case 001:{//Spawn quand combat perdu
+						this.tableauCarte=taTurne;
+						this.xDepart=4;
+						this.yDepart=13;
+						this.imageFond="Images/LaFeyssine/Taturne.png";
+						this.nomCarte="Ta turne";
+						this.musique="Musiques/bienvenue.wav";
+						break;
+					}
+					
 					case 101:{//Entrée dans la turne
 						this.tableauCarte=taTurne;
 						this.xDepart=11;

diff --git a/FenetreCombat.java b/FenetreCombat.java
@@ -320,7 +320,7 @@ public class FenetreCombat implements ActionListener{
                         lDialogue.setText("Retourne t'entrainer avec de revenir !");   // Message d'information pour savoir qu'on a perdu
                         advers.PVmax=PVmaxAdvIni;   // On réinitialise les points de vie de l'adversaire
                         perso.PV=perso.PVmax;      // On réinitialise nos points de vie
-                        variablesSession.nouvelleCarte(000);
+                        variablesSession.nouvelleCarte(001);
                         variablesSession.listeInterractionsAvecDresseurs[1]=2;
                         t2 = new Timer(1500, this);    
                         t2.start();               // On ferme la fenetre après un petit moment
